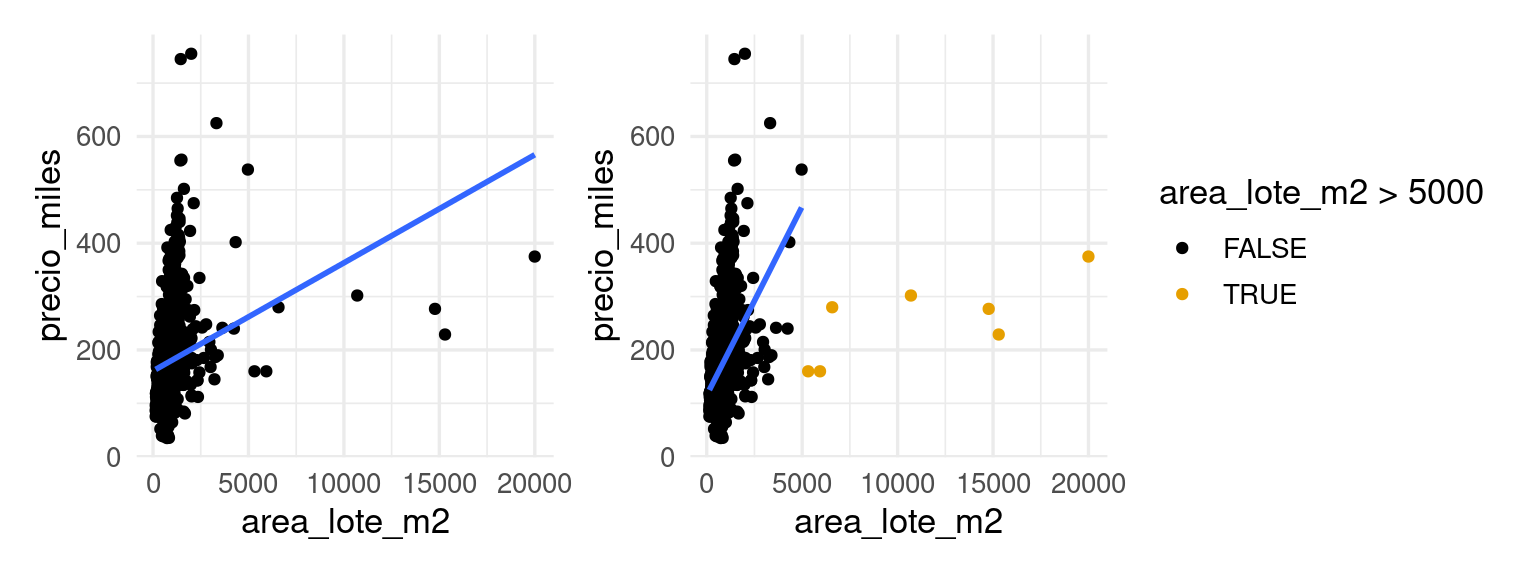
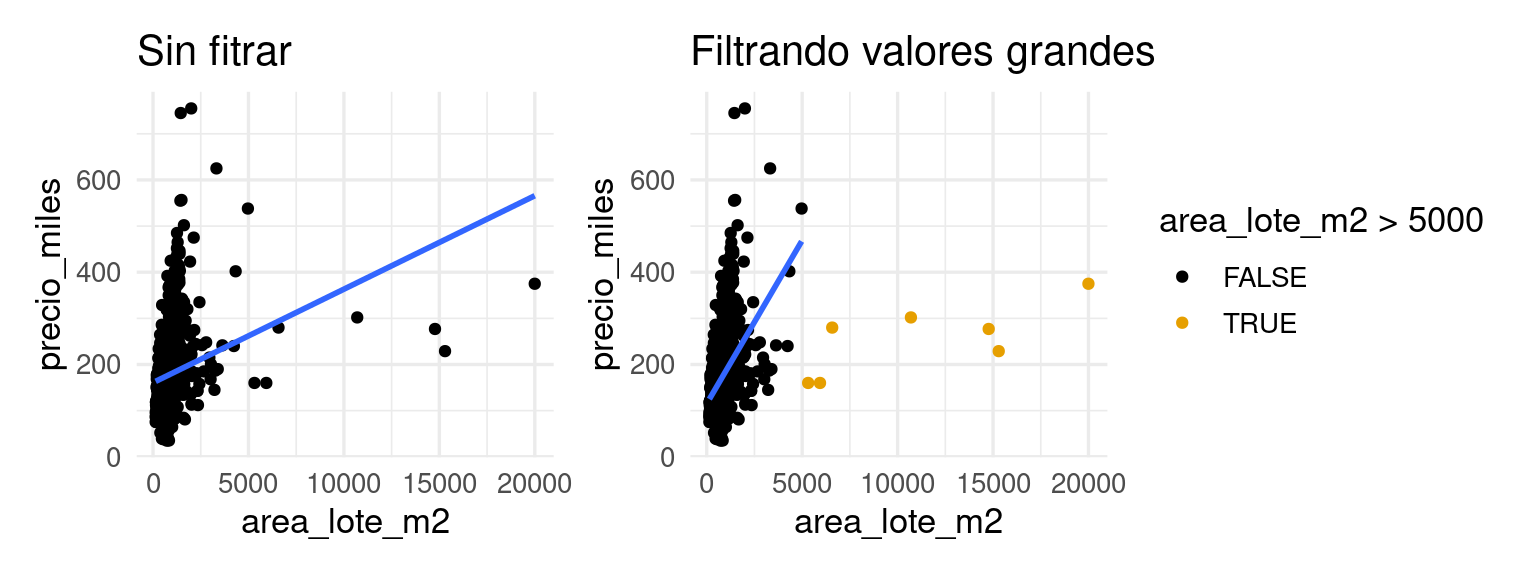
Deploying to gh-pages from @ felipegonzalez/aprendizaje-maquina-mcd-2024@50288734d83c3abb8fa4486450fe1b37f4b404c1 🚀

diff --git a/04-lineales-ingenieria.html b/04-lineales-ingenieria.html
@@ -54,7 +54,27 @@ div.sourceCode
 @media screen {
 pre > code.sourceCode > span > a:first-child::before { text-decoration: underline; }
 }
-</style>
+/* CSS for citations */
+div.csl-bib-body { }
+div.csl-entry {
+  clear: both;
+  margin-bottom: 0em;
+}
+.hanging-indent div.csl-entry {
+  margin-left:2em;
+  text-indent:-2em;
+}
+div.csl-left-margin {
+  min-width:2em;
+  float:left;
+}
+div.csl-right-inline {
+  margin-left:2em;
+  padding-left:1em;
+}
+div.csl-indent {
+  margin-left: 2em;
+}</style>
 
 
 <script src="site_libs/quarto-nav/quarto-nav.js"></script>
@@ -295,7 +315,12 @@ Variables derivadas
 </div>
 </div>
 <div class="callout-body-container callout-body">
-<p>Nótese que cuando usamos modelos lineales, es necesario considerar qué entradas usar para construir el modelo de forma que la estructura lineal sea razonable. - Estas entradas son construidas a partir de las variables originales - Agregar variables tiene dos efectos: disminuye el sesgo, y también puede reducir el error irreducible. - Omitir o simplificar estos modelos disminuyen típicamente la varianza pero pueden aumentar el sesgo.</p>
+<p>Nótese que cuando usamos modelos lineales, es necesario considerar qué entradas usar para construir el modelo de forma que la estructura lineal sea razonable.</p>
+<ul>
+<li>Estas entradas son construidas a partir de las variables originales</li>
+<li>Agregar variables tiene dos efectos: disminuyen el sesgo, y también puede reducir el error irreducible.</li>
+<li>Omitir o simplificar estos modelos disminuye típicamente la varianza pero puede aumentar el sesgo.</li>
+</ul>
 </div>
 </div>
 <p>En este caso particular, teníamos peatones, coches y estacionamiento, pero construimos también el producto de tráfico de coches y estacionamiento, pues la relación de ventas con coches es diferente dependiendo de sí la tienda tiene estacionamiento o no.</p>
@@ -327,7 +352,7 @@ Mínimos cuadrados para regresión lineal
 </section>
 <section id="ingeniería-de-entradas" class="level2" data-number="4.2">
 <h2 data-number="4.2" class="anchored" data-anchor-id="ingeniería-de-entradas"><span class="header-section-number">4.2</span> Ingeniería de entradas</h2>
-<p>Algunas veces, encontrar la estructura apropiada puede requerir más trabajo que simplemente escoger una familia de modelos. Por ejemplo, en el caso de precios de casa, vimos que podríamos mejorar el ajuste haciendo que el coeficiente de área habitable dependiera de la calidad de los terminados @ref(medicioncostosa).</p>
+<p>Algunas veces, encontrar la estructura apropiada puede requerir más trabajo que simplemente escoger una familia de modelos. Por ejemplo, en el caso de precios de casa, vimos que podríamos mejorar el ajuste haciendo que el coeficiente de área habitable dependiera de la calidad de los terminados (<a href="01-introduccion.html#sec-medicioncostosa" class="quarto-xref"><span>Sección 1.3</span></a>).</p>
 <p>Usualmente tendremos que hacer varias transformaciones para obtener buen desempeño de un modelo lineal. En la siguientes secciones mostramos algunas de las más usuales.</p>
 </section>
 <section id="variables-categóricas" class="level2" data-number="4.3">
@@ -3273,7 +3298,7 @@ Variables categóricas
 </section>
 <section id="interacciones" class="level2" data-number="4.4">
 <h2 data-number="4.4" class="anchored" data-anchor-id="interacciones"><span class="header-section-number">4.4</span> Interacciones</h2>
-<p>Otra manera de expandir nuestro modelo es la utilización de interacciones, que muchas veces son clave para tener éxito con modelos lineales. Vimos ejemplos de interacciones en el ejemplo de las casas (@ref(medicioncostosa)) y en el primer ejemplo de ventas de tiendas que dependían del tráfico.</p>
+<p>Otra manera de expandir nuestro modelo es la utilización de interacciones, que muchas veces son clave para tener éxito con modelos lineales. Vimos ejemplos de interacciones en el ejemplo de las casas (<a href="01-introduccion.html#sec-medicioncostosa" class="quarto-xref"><span>Sección 1.3</span></a>) y en el primer ejemplo de ventas de tiendas que dependían del tráfico.</p>
 <section id="ejemplo" class="level3 unnumbered">
 <h3 class="unnumbered anchored" data-anchor-id="ejemplo">Ejemplo</h3>
 <p>Si <span class="math inline">\(x_1\)</span> es el área en metros cuadrados de una casa, y <span class="math inline">\(x_2\)</span> una calificación numérica de su calidad, podemos considerar el modelo sin interacciones:</p>
@@ -5542,15 +5567,14 @@ The retained training set is ~ 0.44 Mb  in memory.</code></pre>
 <div class="cell">
 <div class="sourceCode cell-code" id="cb24"><pre class="sourceCode r code-with-copy"><code class="sourceCode r"><span id="cb24-1"><a href="#cb24-1" aria-hidden="true" tabindex="-1"></a><span class="fu">library</span>(patchwork)</span>
 <span id="cb24-2"><a href="#cb24-2" aria-hidden="true" tabindex="-1"></a>g_1 <span class="ot">&lt;-</span> <span class="fu">ggplot</span>(casas_entrena, <span class="fu">aes</span>(<span class="at">x =</span> area_lote_m2, <span class="at">y =</span> precio_miles)) <span class="sc">+</span></span>
-<span id="cb24-3"><a href="#cb24-3" aria-hidden="true" tabindex="-1"></a>  <span class="fu">geom_point</span>() <span class="sc">+</span> <span class="co">#geom_smooth(method = "loess", span = 0.5, se = FALSE,</span></span>
-<span id="cb24-4"><a href="#cb24-4" aria-hidden="true" tabindex="-1"></a>                <span class="co">#             method.args = list(degree = 1)) +</span></span>
-<span id="cb24-5"><a href="#cb24-5" aria-hidden="true" tabindex="-1"></a>  <span class="fu">geom_smooth</span>(<span class="at">method =</span> <span class="st">"lm"</span>, <span class="at">se =</span> <span class="cn">FALSE</span>)</span>
+<span id="cb24-3"><a href="#cb24-3" aria-hidden="true" tabindex="-1"></a>  <span class="fu">geom_point</span>() <span class="sc">+</span> </span>
+<span id="cb24-4"><a href="#cb24-4" aria-hidden="true" tabindex="-1"></a>  <span class="fu">geom_smooth</span>(<span class="at">method =</span> <span class="st">"lm"</span>, <span class="at">se =</span> <span class="cn">FALSE</span>) <span class="sc">+</span></span>
+<span id="cb24-5"><a href="#cb24-5" aria-hidden="true" tabindex="-1"></a>  <span class="fu">ggtitle</span>(<span class="st">"Sin fitrar"</span>) </span>
 <span id="cb24-6"><a href="#cb24-6" aria-hidden="true" tabindex="-1"></a>g_2 <span class="ot">&lt;-</span> <span class="fu">ggplot</span>(casas_entrena <span class="sc">|&gt;</span> <span class="fu">filter</span>(area_lote_m2 <span class="sc">&lt;</span> <span class="dv">5000</span>), <span class="fu">aes</span>(<span class="at">x =</span> area_lote_m2, <span class="at">y =</span> precio_miles)) <span class="sc">+</span></span>
 <span id="cb24-7"><a href="#cb24-7" aria-hidden="true" tabindex="-1"></a>  <span class="fu">geom_point</span>(<span class="at">data =</span> casas_entrena, <span class="fu">aes</span>(<span class="at">colour =</span> area_lote_m2 <span class="sc">&gt;</span> <span class="dv">5000</span>)) <span class="sc">+</span> </span>
-<span id="cb24-8"><a href="#cb24-8" aria-hidden="true" tabindex="-1"></a>  <span class="co">#geom_smooth(method = "loess", span = 0.5, se = FALSE,</span></span>
-<span id="cb24-9"><a href="#cb24-9" aria-hidden="true" tabindex="-1"></a>  <span class="co">#                           method.args = list(degree = 1)) +</span></span>
-<span id="cb24-10"><a href="#cb24-10" aria-hidden="true" tabindex="-1"></a>  <span class="fu">geom_smooth</span>(<span class="at">method =</span> <span class="st">"lm"</span>, <span class="at">se =</span> <span class="cn">FALSE</span>)</span>
-<span id="cb24-11"><a href="#cb24-11" aria-hidden="true" tabindex="-1"></a>g_1 <span class="sc">+</span> g_2</span></code><button title="Copiar al portapapeles" class="code-copy-button"><i class="bi"></i></button></pre></div>
+<span id="cb24-8"><a href="#cb24-8" aria-hidden="true" tabindex="-1"></a>  <span class="fu">geom_smooth</span>(<span class="at">method =</span> <span class="st">"lm"</span>, <span class="at">se =</span> <span class="cn">FALSE</span>) <span class="sc">+</span></span>
+<span id="cb24-9"><a href="#cb24-9" aria-hidden="true" tabindex="-1"></a>  <span class="fu">ggtitle</span>(<span class="st">"Filtrando valores grandes"</span>) </span>
+<span id="cb24-10"><a href="#cb24-10" aria-hidden="true" tabindex="-1"></a>g_1 <span class="sc">+</span> g_2</span></code><button title="Copiar al portapapeles" class="code-copy-button"><i class="bi"></i></button></pre></div>
 <div class="cell-output-display">
 <div>
 <figure class="figure">
@@ -5559,7 +5583,7 @@ The retained training set is ~ 0.44 Mb  in memory.</code></pre>
 </div>
 </div>
 </div>
-<p>Y notamos que hay algunos valores grandes que pueden perturbar el ajuste lineal. Esto puede producir varianza alta en las predicciones, pues el ajuste depende mucho de unos cuantos valores de entrenamiento. Una solución puede ser transformar la entrada por ejempo usando el logaritmo, que comprime la cola derecha de la distribución de la variable que tiene mucho sesgo:</p>
+<p>Y notamos que hay algunos valores grandes que pueden perturbar el ajuste lineal. Esto puede producir varianza alta en las predicciones, pues el ajuste depende mucho de unos cuantos valores de entrenamiento (intenta explicar de dónde sale esa varianza). Una solución puede ser transformar la entrada por ejempo usando el logaritmo, que comprime la cola derecha de la distribución de la variable que tiene mucho sesgo:</p>
 <div class="cell">
 <div class="sourceCode cell-code" id="cb25"><pre class="sourceCode r code-with-copy"><code class="sourceCode r"><span id="cb25-1"><a href="#cb25-1" aria-hidden="true" tabindex="-1"></a><span class="fu">ggplot</span>(casas_entrena, <span class="fu">aes</span>(<span class="at">x =</span> area_lote_m2, <span class="at">y =</span> precio_miles)) <span class="sc">+</span></span>
 <span id="cb25-2"><a href="#cb25-2" aria-hidden="true" tabindex="-1"></a>  <span class="fu">geom_point</span>() <span class="sc">+</span></span>
@@ -5576,7 +5600,11 @@ The retained training set is ~ 0.44 Mb  in memory.</code></pre>
 </div>
 </div>
 </div>
-<p>Nótese que probablemente tendremos que agregar más flexibilidad en nuestro predictor para capturar apropiadamente la información en esta variable.</p>
+<p>Nótese que:</p>
+<ul>
+<li>Probablemente tendremos que agregar más flexibilidad en nuestro predictor para capturar apropiadamente la información en esta variable, como mostramos en la gráfica anterior. Esto muestra que con flexibilidad apropiada, la existencia de atípicos no necesariamente afecta mucho la estimación donde existe la mayoría de los valores.</li>
+<li>En algunos casos, si después de investigar estas observaciones vemos que son datos erróneos (y conocemos la razón del error o medición defectuosa), podemos corregirlos o eliminarlos. Esto es parte del preprocesamiento y es necesario también probar el impacto en desempeño de estas modificaciones.</li>
+</ul>
 </section>
 <section id="no-linealidad-y-splines" class="level2" data-number="4.7">
 <h2 data-number="4.7" class="anchored" data-anchor-id="no-linealidad-y-splines"><span class="header-section-number">4.7</span> No linealidad y splines</h2>
@@ -5603,8 +5631,19 @@ The retained training set is ~ 0.44 Mb  in memory.</code></pre>
 </div>
 </div>
 </div>
-<p>Estos dos son ejemplos de funciones cúbicas por tramos y dos veces diferenciables, con nudos en 0, 33, 66 y 100. Su forma particular depende de tres coeficientes, que pueden pensarse también como definidos por dónde tienen que pasar la curva en <span class="math inline">\(y\)</span> para los valores <span class="math inline">\(x = 33, 66\)</span> y <span class="math inline">\(100\)</span>. Extrapolan linealmente fuera del rango de los datos.</p>
-<p>La ventaja de utilizar estos splines es que son estables en el cálculo, pues a lo más utilizan potencias cúbicas, y la complejidad puede aumentarse incrementando el número de nodos.</p>
+<p>Estos dos son ejemplos de funciones cúbicas por tramos y dos veces diferenciables, con nudos en 0, 33, 66 y 100. Su forma particular depende de tres coeficientes, que pueden pensarse también como definidos por dónde tienen que pasar la curva en <span class="math inline">\(y\)</span> para los valores <span class="math inline">\(x = 33, 66\)</span> y <span class="math inline">\(100\)</span>. Extrapolan <em>linealmente</em> fuera del rango de los datos.</p>
+<p>Para entender mejor esta construcción, primero consideramos el uso de polinomios para hacer expansión de entradas. Por ejemplo, si escogemos grado 3, la idea es convertir una variable <span class="math inline">\(x\)</span> en varias variables <span class="math inline">\(x, x^2, x^3, x^4\)</span>, de modo que nuestro modelo original</p>
+<p><span class="math display">\[f(x) = a + bx + \textrm{otros términos}\]</span> Se convierte en</p>
+<p><span class="math display">\[f(x) = a + b_1x + b_2x^2 + b_3x^3 + b_4x^4 + \textrm{otros términos}\]</span></p>
+<p>Para hacer esto, sólo tenemos que precalcular <span class="math inline">\(x, x^2, x^3, x^4\)</span> y añadir al modelo lineal.</p>
+<p>En el caso de splines, con 4 grados de libertad por ejemplo, el modelo se convierte en:</p>
+<p><span class="math display">\[f(x) = a + b_1s_1(x) + b_2s_2(x) + b_3s_3(x) + b_4s_4(x) + \textrm{otros términos}\]</span> donde cada <span class="math inline">\(s_i(x)\)</span> es una función cúbica por tramos que vale 0 fuera de un intervalo. Igual que con polinomios, estas variables <span class="math inline">\(s_i(x)\)</span> pueden precalcularse a partir de la <span class="math inline">\(x\)</span> original y los nudos que escogimos. Puedes ver los detalles en nuestra referencia <span class="citation" data-cites="ESL">Hastie, Tibshirani, y Friedman (<a href="99-referencias.html#ref-ESL" role="doc-biblioref">2017</a>)</span>.</p>
+<p>La ventaja de utilizar estos splines es que</p>
+<ul>
+<li>Son más estables en el cálculo, pues a lo más utilizan potencias cúbicas.</li>
+<li>La complejidad puede aumentarse incrementando el número de nodos, sin incrementar el grado.</li>
+<li>Evitan el problema de la naturaleza global de los polinomios, en los que cambios en una parte de los datos puede afectar severamente la forma del polinomio en otros lugares lejanos. Esto limita los efectos negativos de la varianza adicional en las colas de los datos (por ejemplo atípicos).</li>
+</ul>
 <section id="ejemplo-1" class="level3 unnumbered">
 <h3 class="unnumbered anchored" data-anchor-id="ejemplo-1">Ejemplo</h3>
 <p>Revisamos nuestro ejemplo de rendimiento de coches:</p>
@@ -6749,6 +6788,11 @@ The retained training set is ~ 0.44 Mb  in memory.</code></pre>
 </div>
 
 
+<div id="refs" class="references csl-bib-body hanging-indent" data-entry-spacing="0" role="list" style="display: none">
+<div id="ref-ESL" class="csl-entry" role="listitem">
+Hastie, Trevor, Robert Tibshirani, y Jerome Friedman. 2017. <em>The Elements of Statistical Learning</em>. Springer Series en Statistics. Springer New York Inc. <a href="http://web.stanford.edu/~hastie/ElemStatLearn/">http://web.stanford.edu/~hastie/ElemStatLearn/</a>.
+</div>
+</div>
 </section>
 </section>
 

diff --git a/01-introduccion.html b/01-introduccion.html
@@ -228,7 +228,7 @@ window.Quarto = {
   <ul>
   <li><a href="#qué-es-aprendizaje-de-máquina-machine-learning" id="toc-qué-es-aprendizaje-de-máquina-machine-learning" class="nav-link active" data-scroll-target="#qué-es-aprendizaje-de-máquina-machine-learning"><span class="header-section-number">1.1</span> ¿Qué es aprendizaje de máquina (machine learning)?</a></li>
   <li><a href="#ejemplo-reglas-y-aprendizaje" id="toc-ejemplo-reglas-y-aprendizaje" class="nav-link" data-scroll-target="#ejemplo-reglas-y-aprendizaje"><span class="header-section-number">1.2</span> Ejemplo: reglas y aprendizaje</a></li>
-  <li><a href="#medicioncostosa" id="toc-medicioncostosa" class="nav-link" data-scroll-target="#medicioncostosa"><span class="header-section-number">1.3</span> Ejemplo: mediciones costosas</a></li>
+  <li><a href="#sec-medicioncostosa" id="toc-sec-medicioncostosa" class="nav-link" data-scroll-target="#sec-medicioncostosa"><span class="header-section-number">1.3</span> Ejemplo: mediciones costosas</a></li>
   <li><a href="#aprendizaje-supervisado-y-no-supervisado" id="toc-aprendizaje-supervisado-y-no-supervisado" class="nav-link" data-scroll-target="#aprendizaje-supervisado-y-no-supervisado"><span class="header-section-number">1.4</span> Aprendizaje supervisado y no supervisado</a></li>
   </ul>
 </nav>
@@ -487,7 +487,7 @@ window.Quarto = {
 <div class="cell">
 <div class="sourceCode cell-code" id="cb13"><pre class="sourceCode r code-with-copy"><code class="sourceCode r"><span id="cb13-1"><a href="#cb13-1" aria-hidden="true" tabindex="-1"></a>preds <span class="ot">&lt;-</span> <span class="fu">predict</span>(modelo, x[<span class="sc">-</span>indices_entrena,,,])</span></code><button title="Copiar al portapapeles" class="code-copy-button"><i class="bi"></i></button></pre></div>
 <div class="cell-output cell-output-stdout">
-<pre><code>23/23 - 1s - 23ms/step</code></pre>
+<pre><code>23/23 - 0s - 22ms/step</code></pre>
 </div>
 <div class="sourceCode cell-code" id="cb15"><pre class="sourceCode r code-with-copy"><code class="sourceCode r"><span id="cb15-1"><a href="#cb15-1" aria-hidden="true" tabindex="-1"></a>preds_tbl <span class="ot">&lt;-</span> <span class="fu">tibble</span>(<span class="at">y =</span> y_imagenes[<span class="sc">-</span><span class="fu">c</span>(indices_entrena)] <span class="sc">/</span> <span class="dv">10</span>, <span class="at">preds =</span> preds)</span>
 <span id="cb15-2"><a href="#cb15-2" aria-hidden="true" tabindex="-1"></a><span class="fu">ggplot</span>(preds_tbl, <span class="fu">aes</span>(<span class="at">x =</span> preds, <span class="at">y =</span> y)) <span class="sc">+</span></span>
@@ -503,8 +503,8 @@ window.Quarto = {
 </div>
 <p>De forma que podemos resolver este problema con algoritmos generales, sin tener que aplicar métodos sofisticados de procesamiento de imágenes. El enfoque de aprendizaje es particularmente efectivo cuando hay cantidades grandes de datos poco ruidosos, y aunque en este ejemplo los dos enfoques dan resultados razonables, en procesamiento de imágenes es cada vez más común usar redes neuronales grandes para resolver este tipo de problemas.</p>
 </section>
-<section id="medicioncostosa" class="level2" data-number="1.3">
-<h2 data-number="1.3" class="anchored" data-anchor-id="medicioncostosa"><span class="header-section-number">1.3</span> Ejemplo: mediciones costosas</h2>
+<section id="sec-medicioncostosa" class="level2" data-number="1.3">
+<h2 data-number="1.3" class="anchored" data-anchor-id="sec-medicioncostosa"><span class="header-section-number">1.3</span> Ejemplo: mediciones costosas</h2>
 <p>En algunos casos, el estándar de la medición que nos interesa es uno que es costoso de cumplir: a veces se dice que <em>etiquetar</em> los datos es costoso. Un ejemplo es producir las estimaciones de ingreso trimestral de un hogar que se recolecta en la ENIGH (ver <a href="https://www.inegi.org.mx/programas/enigh/nc/2018/">aquí</a>). En este caso particular, se utiliza esta encuesta como datos etiquetados para poder estimar el ingreso de otros hogares que no están en la muestra del ENIGH, pero para los que se conocen características de las vivienda, características de los integrantes, y otras medidas que son más fácilmente recolectadas en encuestas de opinión.</p>
 <p>Veremos otro ejemplo: estimar el valor de mercado de las casas en venta de una región. Es posible que tengamos un inventario de casas con varias de sus características registradas, pero producir estimaciones correctas de su valor de mercado puede requerir de inspecciones costosas de expertos, o tomar aproximaciones imprecisas de esta cantidad (por ejemplo, cuál es el precio ofertado).</p>
 <p>Utilizaremos datos de casas que se <a href="https://www.kaggle.com/prevek18/ames-housing-dataset">vendieron en Ames, Iowa en cierto periodo</a>. En este caso, conocemos el valor a la que se vendió una casa. Buscamos producir una estimación para otras casas para las cuales conocemos características como su localización, superficie en metros cuadrados, año de construcción, espacio de estacionamiento, y así sucesivamente. Estas medidas son más fáciles de recolectar, y quisiéramos producir una estimación de su precio de venta en términos de estas medidas.</p>
